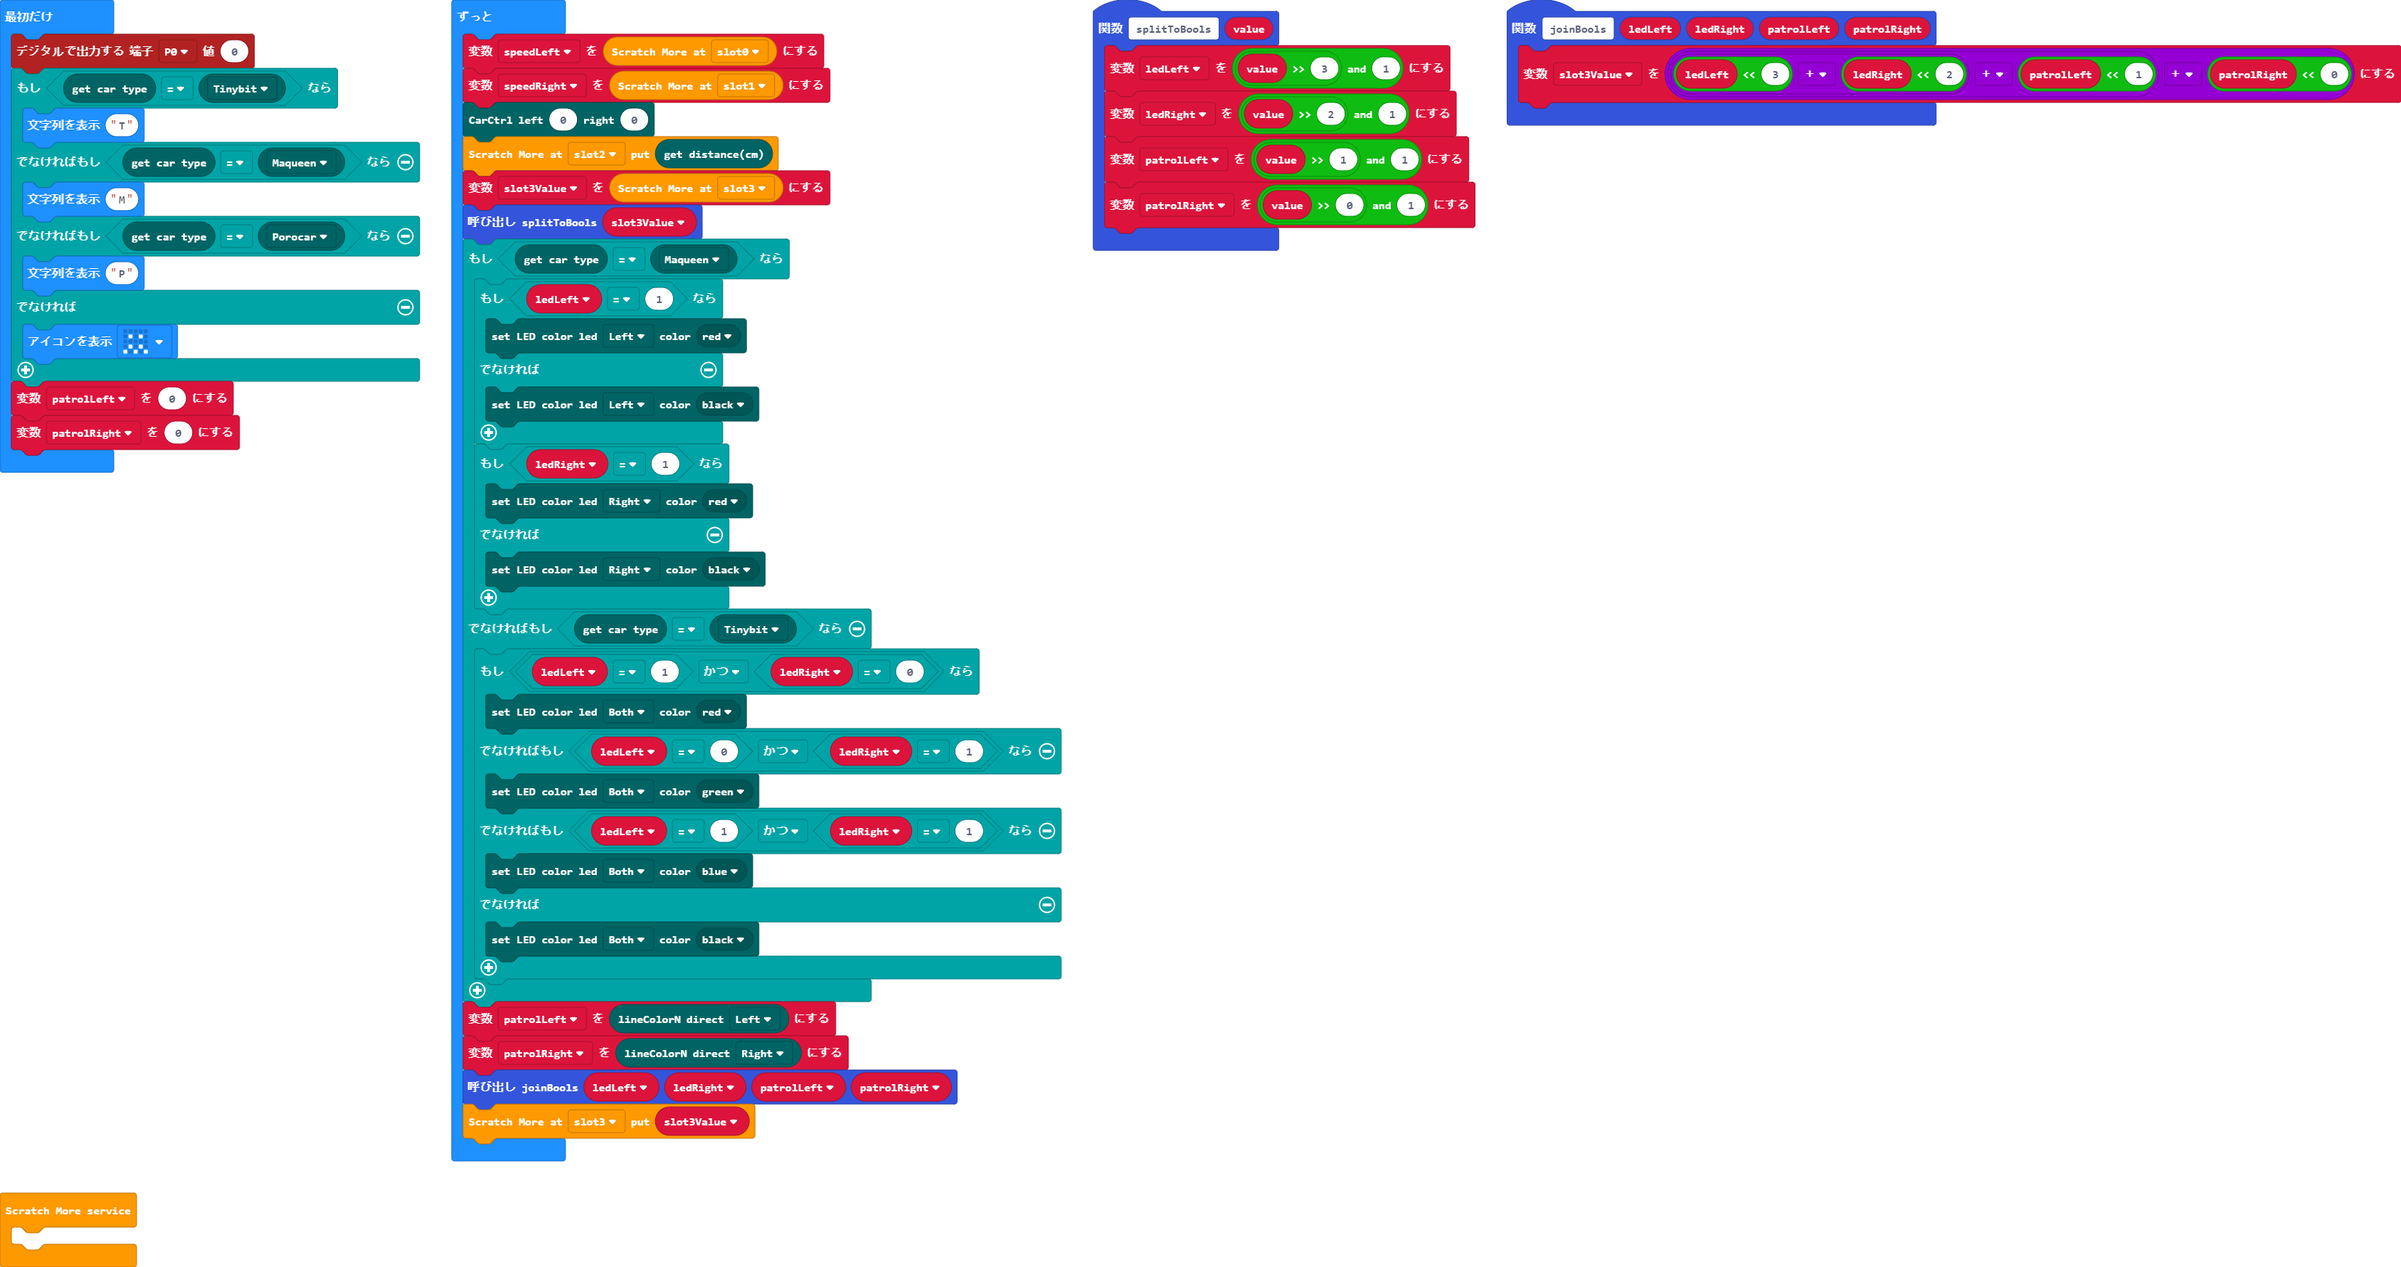
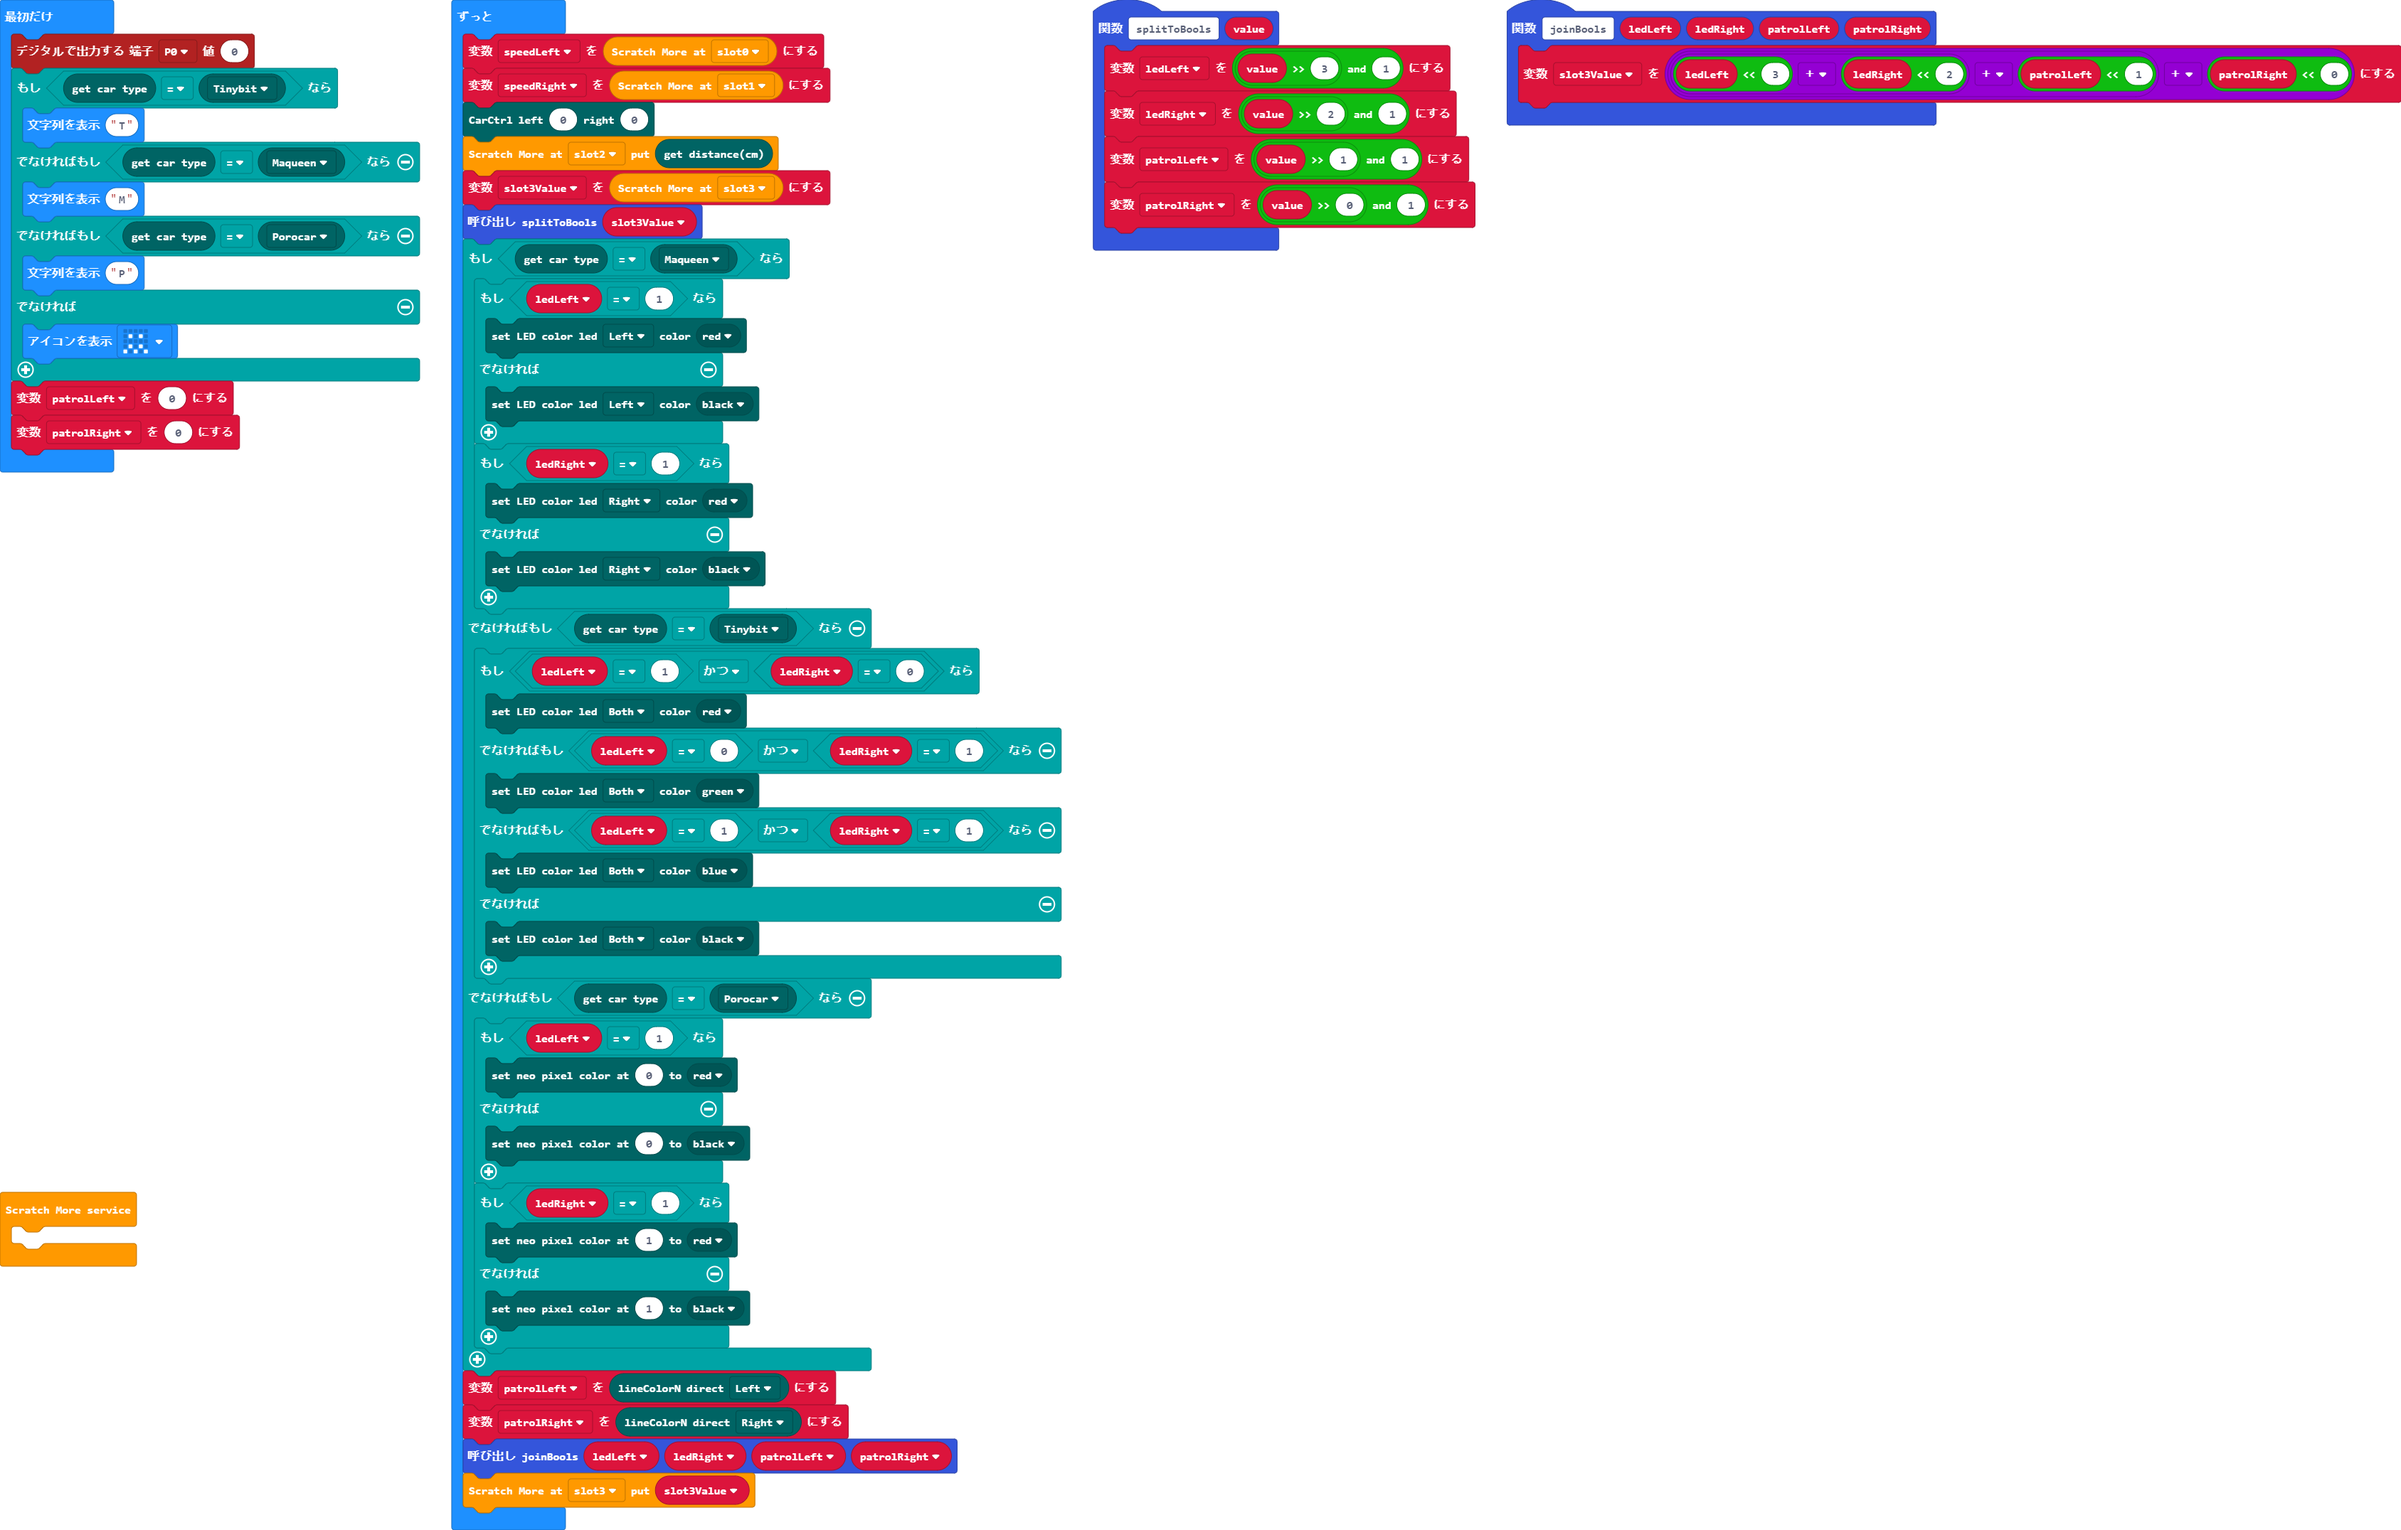
Update pxt.json, main.blocks, main.ts

diff --git a/main.ts b/main.ts
@@ -57,6 +57,17 @@ basic.forever(function () {
         } else {
             carcotrol.setLED(Position.Both, carcotrol.colors(RGBColors.Black))
         }
+    } else if (carcotrol.getCarType() == carcotrol.car(carType.Porocar)) {
+        if (ledLeft == 1) {
+            carcotrol.setNeoPixelColor(0, carcotrol.colors(RGBColors.Red))
+        } else {
+            carcotrol.setNeoPixelColor(0, carcotrol.colors(RGBColors.Black))
+        }
+        if (ledRight == 1) {
+            carcotrol.setNeoPixelColor(1, carcotrol.colors(RGBColors.Red))
+        } else {
+            carcotrol.setNeoPixelColor(1, carcotrol.colors(RGBColors.Black))
+        }
     }
     patrolLeft = carcotrol.getLineColorN(Position.Left)
     patrolRight = carcotrol.getLineColorN(Position.Right)
